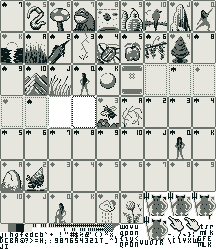
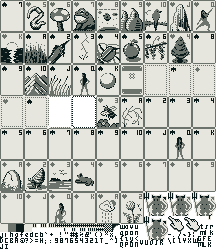
Class-ify Sprite

diff --git a/src/level/Level.ts b/src/level/Level.ts
@@ -1,7 +1,7 @@
 import { FilmByID } from '@/atlas-pack';
 import { I16XY } from '@/oidlib';
 import { Card, Solitaire, Suit } from '@/solitaire';
-import { ECS, Sprite } from '@/void';
+import { ECS } from '@/void';
 import { SublimeFilmID } from '../assets/SublimeFilmID.ts';
 import { ComponentSet } from '../ecs/ComponentSet.ts';
 import { SublimeLayer } from '../sprite/SublimeLayer.ts';
@@ -23,60 +23,46 @@ export function setSpritePositionsForLayout(
     for (const [indexY, card] of column.entries()) {
       const components = ecs.componentsByRef.get(card);
       const xy = getTableauCardXY(filmByID, indexX, indexY);
-      Sprite.moveTo(components!.sprite, xy);
-      Sprite.setLayer(
-        components!.sprite,
-        SublimeLayer[card.direction == 'Up' ? 'CardUp' : 'CardDown'],
-      );
-      Sprite.reset(components!.sprite, time, filmByID[getCardFilmID(card)]);
+      components!.sprite.moveTo(xy);
+      components!.sprite.layer =
+        SublimeLayer[card.direction == 'Up' ? 'CardUp' : 'CardDown'];
+      components!.sprite.animate(time, filmByID[getCardFilmID(card)]);
     }
   }
   for (const pillar of solitaire.foundation) {
     for (const [index, card] of pillar.entries()) {
       const components = ecs.componentsByRef.get(card);
       const xy = getFoundationCardXY(filmByID, card.suit);
-      Sprite.moveTo(components!.sprite, xy);
+      components!.sprite.moveTo(xy);
       // change this to downard for everything but top
       const animID = index == (pillar.length - 1)
         ? getCardFilmID(card)
         : 'CardDown';
-      Sprite.reset(components!.sprite, time, filmByID[animID]);
-      Sprite.setLayer(
-        components!.sprite,
-        SublimeLayer[animID == 'CardDown' ? 'CardDown' : 'CardUp'],
-      );
+      components!.sprite.animate(time, filmByID[animID]);
+      components!.sprite.layer =
+        SublimeLayer[animID == 'CardDown' ? 'CardDown' : 'CardUp'];
     }
   }
   for (const [index, card] of solitaire.stock.entries()) {
     const components = ecs.componentsByRef.get(card);
-    Sprite.moveTo(components!.sprite, getStockXY(solitaire, index));
-    Sprite.setLayer(
-      components!.sprite,
-      SublimeLayer[card.direction == 'Up' ? 'CardUp' : 'CardDown'],
-    );
-    Sprite.reset(components!.sprite, time, filmByID[getCardFilmID(card)]);
+    components!.sprite.moveTo(getStockXY(solitaire, index));
+    components!.sprite.layer =
+      SublimeLayer[card.direction == 'Up' ? 'CardUp' : 'CardDown'];
+    components!.sprite.animate(time, filmByID[getCardFilmID(card)]);
   }
   for (const [index, card] of solitaire.waste.entries()) {
     const components = ecs.componentsByRef.get(card);
-    Sprite.moveTo(
-      components!.sprite,
-      getWasteXY(filmByID, solitaire, index),
-    );
+    components!.sprite.moveTo(getWasteXY(filmByID, solitaire, index));
     let animID: SublimeFilmID;
-    if (
-      index >=
-        (solitaire.waste.length - solitaire.drawSize)
-    ) {
+    if (index >= (solitaire.waste.length - solitaire.drawSize)) {
       animID = getCardFilmID(card);
     } else {
       animID = 'CardDown';
     }
-    Sprite.setLayer(
-      components!.sprite,
-      SublimeLayer[animID == 'CardDown' ? 'CardDown' : 'CardUp'],
-    ); // could have card-1-2-3 for horizontal ordering to work correctly, could have CardBack for everything below topmost hidden card. tricks i can play here to make layering appear to work correctly for stacked cards with same y. could also do order breaking for horizontal based on left-to-right so that it's consistent.
-    Sprite.reset(
-      components!.sprite,
+    // could have card-1-2-3 for horizontal ordering to work correctly, could have CardBack for everything below topmost hidden card. tricks i can play here to make layering appear to work correctly for stacked cards with same y. could also do order breaking for horizontal based on left-to-right so that it's consistent.
+    components!.sprite.layer =
+      SublimeLayer[animID == 'CardDown' ? 'CardDown' : 'CardUp'];
+    components!.sprite.animate(
       time,
       // hide cards under draw reserve. i can't draw them in the correct order
       filmByID[animID],

diff --git a/src/level/ComponentFactory.ts b/src/level/ComponentFactory.ts
@@ -1,4 +1,4 @@
-import { I16XY, I4, Uint } from '@/oidlib';
+import { I16XY, Uint } from '@/oidlib';
 import { Card, Solitaire, Suit } from '@/solitaire';
 import {
   ComponentSet,
@@ -10,6 +10,7 @@ import {
   mod,
   SpriteFactory,
 } from '@/sublime-solitaire';
+import { I4XY } from '../../../oidlib/src/2d/XY.ts';
 
 export function newLevelComponents(
   factory: SpriteFactory,
@@ -34,7 +35,9 @@ function newBackground(factory: SpriteFactory): Partial<ComponentSet>[] {
   // stacking now but other options are clipbox or four border bits.
   return [{
     followCam: { fill: 'XY', orientation: 'Northwest' },
-    sprite: factory.new('PaletteMid', 'Background', { layerSuborder: 'Start' }),
+    sprite: factory.new('PaletteDark', 'Background', {
+      layerSuborder: 'Start',
+    }),
   }, {
     followCam: { orientation: 'Northwest' },
     sprite: factory.new('Corner', 'Background', { flip: '' }),
@@ -52,12 +55,7 @@ function newBackground(factory: SpriteFactory): Partial<ComponentSet>[] {
     sprite: factory.new(
       'Grid',
       'Background',
-      {
-        start: I16XY(1, 1),
-        layerSuborder: 'Start',
-        wrapX: I4(-1),
-        wrapY: I4(-1),
-      },
+      { start: I16XY(1, 1), layerSuborder: 'Start', wrap: I4XY(-1, -1) },
     ),
   }];
 }

diff --git a/src/ecs/systems/PatienceTheDemonSystem.ts b/src/ecs/systems/PatienceTheDemonSystem.ts
@@ -28,19 +28,19 @@ export const PatienceTheDemonSystem: System<
   updateEnt(set, update) {
     const pickXY = NonNull(update.inputs.pick).xy;
     const { sprite } = set;
-    if (!Sprite.intersectsBounds(sprite, pickXY)) return;
-    if (!Sprite.intersects(sprite, pickXY, update.time)) {
+    if (!sprite.intersectsBounds(pickXY)) return;
+    if (!sprite.intersects(pickXY, update.time)) {
       Solitaire.reset(update.solitaire);
       update.saveStorage.save.wins = update.solitaire.wins;
       SaveStorage.save(update.saveStorage);
       return;
     }
-    Sprite.reset(sprite, update.time, nextFilm(update, sprite));
+    sprite.animate(update.time, nextFilm(update, sprite));
   },
 });
 
 function nextFilm(update: Readonly<SublimeECSUpdate>, sprite: Sprite): Film {
-  const good = sprite.animator.film.id == 'PatienceTheDemonGood';
+  const good = sprite.film.id == 'PatienceTheDemonGood';
   const id = `PatienceTheDemon${good ? 'Evil' : 'Good'}` as const;
   return update.filmByID[id];
 }

diff --git a/src/ecs/systems/CardSystem.ts b/src/ecs/systems/CardSystem.ts
@@ -138,11 +138,11 @@ function pickClosest(
   let picked: Picked | undefined;
   for (const set of sets) {
     const { card, sprite } = set;
-    if (!Sprite.intersectsSprite(sprite, update.cursor, update.time)) {
+    if (!sprite.intersectsSprite(update.cursor, update.time)) {
       continue;
     }
 
-    if ((picked == null || Sprite.compareDepth(sprite, picked.sprite) < 0)) {
+    if ((picked == null || sprite.compareDepth(picked.sprite) < 0)) {
       picked = { set, card, sprite };
     }
   }
@@ -170,7 +170,7 @@ function setPickRange(update: SublimeECSUpdate, card: Card): void {
   update.picked = { ents };
 
   for (const sprite of ents.map((data) => data.components.sprite!)) {
-    Sprite.setLayer(sprite, SublimeLayer.Picked);
+    sprite.layer = SublimeLayer.Picked;
   }
 }
 

diff --git a/src/ecs/systems/TallySystem.ts b/src/ecs/systems/TallySystem.ts
@@ -22,8 +22,8 @@ export const TallySystem: System<TallySet, SublimeECSUpdate> = Immutable({
       Math.max(0, update.solitaire.wins - tally.tens * 10),
     ) as ZeroToTen;
     const filmID: SublimeFilmID = `Tally${wins}`;
-    if (sprite.animator.film.id != filmID) {
-      Sprite.reset(sprite, update.time, update.filmByID[filmID]);
+    if (sprite.film.id != filmID) {
+      sprite.animate(update.time, update.filmByID[filmID]);
     }
   },
 });

diff --git a/src/ecs/systems/VacantStockSystem.ts b/src/ecs/systems/VacantStockSystem.ts
@@ -20,7 +20,7 @@ export const VacantStockSystem: System<VacantStockSet, SublimeECSUpdate> =
         !Input.activeTriggered(update.inputs.pick);
     },
     updateEnt(set, update) {
-      if (!Sprite.intersectsBounds(set.sprite, update.inputs.pick!.xy)) return;
+      if (!set.sprite.intersectsBounds(update.inputs.pick!.xy)) return;
       Solitaire.deal(update.solitaire);
       setSpritePositionsForLayout(
         update.ecs,

diff --git a/src/sprite/SpriteFactory.ts b/src/sprite/SpriteFactory.ts
@@ -14,6 +14,6 @@ export class SpriteFactory {
   }
 
   new(filmID: SublimeFilmID, layer: SublimeLayer, props?: SpriteProps): Sprite {
-    return Sprite(this.#filmByID[filmID], SublimeLayer[layer], props);
+    return new Sprite(this.#filmByID[filmID], SublimeLayer[layer], props);
   }
 }
